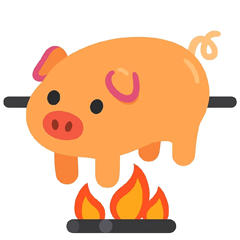
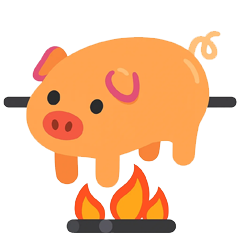
1

diff --git a/__init__.py b/__init__.py
@@ -17,7 +17,7 @@ HELP = """
 """
 sv = Service(
     "今天是什么小猪",
-    enable_on_default=True,
+    enable_on_default=False,
     help_=HELP.strip(),
 )
 # 载入小猪信息
@@ -123,3 +123,106 @@ async def find_pig(bot: HoshinoBot, ev: CQEvent):
         image_url = "https://pighub.top/data/" + pig["thumbnail"].split("/")[-1]
         messages.append(str(pig["title"] + MessageSegment.image(image_url)))
     await bot.send(ev, "\n".join(messages))
+
[email redacted]_prefix("烤群友")  
+async def roast_member(bot: HoshinoBot, ev: CQEvent):  
+    text = ev.message.extract_plain_text().strip()  
+  
+    force_keywords = {"打点后厨", "偷换烤架", "贿赂主厨", "加急生火", "加急生活"}  
+    super_force_keyword = "强行点火"  
+  
+    # 1) 解析后门口令  
+    force_mode = None  
+    if super_force_keyword in text:  
+        force_mode = "super"  
+    elif any(k in text for k in force_keywords):  
+        force_mode = "normal"  
+  
+    # 2) 解析目标：优先回复，其次 @  
+    target_id = None  
+    target_name = "群友"  
+  
+    reply = getattr(ev, "reply", None)  
+    if reply:  
+        try:  
+            target_id = str(reply.sender.user_id)  
+            target_name = reply.sender.card or reply.sender.nickname  
+        except Exception:  
+            target_id = None  
+  
+    if not target_id:  
+        for seg in ev.message:  
+            if seg.type == "at":  
+                target_id = str(seg.data["qq"])  
+                target_name = "对方"  
+                break  
+  
+    if not target_id:  
+        await bot.finish(ev, "请 @ 或回复你要烤的群友！")  
+        return  
+  
+    if target_id == str(ev.user_id):  
+        await bot.finish(ev, "对自己好一点，别自焚。请发送「今日烤猪」。")  
+        return  
+  
+    # 3) 读取今日抽猪缓存  
+    today_str = datetime.date.today().isoformat()  
+    today_cache = load_json(TODAY_PATH, {"date": "", "records": {}})  
+  
+    if today_cache.get("date") != today_str:  
+        today_cache = {"date": today_str, "records": {}}  
+  
+    records = today_cache["records"]  
+  
+    attacker_pig = records.get(str(ev.user_id))  
+    target_pig = records.get(target_id)  
+  
+    # 4) 目标资格检查  
+    if not target_pig:  
+        await bot.finish(ev, f"【{target_name}】今天还没抽过今日小猪，没法烤。")  
+        return  
+  
+    target_pig_id = target_pig.get("id", "")  
+    if target_pig_id == "human":  
+        await bot.finish(ev, f"【{target_name}】今天是人类形态，烤架拒绝处理。")  
+        return  
+  
+    # 5) 60% 成功 / 30% 逃脱 / 10% 反噬  
+    roll = 1 if force_mode in {"normal", "super"} else random.randint(1, 100)  
+  
+    if roll <= 60:  
+        if not PIG_LIST:  
+            await bot.finish(ev, "猪图鉴为空，请先检查资源文件。")  
+            return  
+  
+        food = random.choice(PIG_LIST)  
+        image = find_image_file(food["id"])  
+  
+        msg = f"【{target_name}】被烤成了【{food['name']}】\n{food['description']}\n分析：{food['analysis']}"  
+        if image:  
+            with Image.open(image) as img:  
+                msg += MessageSegment.image(pic2b64(img))  
+  
+        await bot.send(ev, msg)  
+        return  
+  
+    if roll <= 90:  
+        await bot.finish(ev, f"【{target_name}】机灵地逃掉了，这次没烤到。")  
+        return  
+  
+    if not PIG_LIST:  
+        await bot.finish(ev, "猪图鉴为空，请先检查资源文件。")  
+        return  
+  
+    backfire_food = random.choice(PIG_LIST)  
+    image = find_image_file(backfire_food["id"])  
+  
+    msg = (  
+        f"烤架反噬了发起者，你自己变成了【{backfire_food['name']}】\n"  
+        f"{backfire_food['description']}\n分析：{backfire_food['analysis']}"  
+    )  
+    if image:  
+        with Image.open(image) as img:  
+            msg += MessageSegment.image(pic2b64(img))  
+  
+    await bot.send(ev, msg)

diff --git a/util.py b/util.py
@@ -1,5 +1,6 @@
 import json
 from pathlib import Path
+from typing import Optional  # 
 from httpx import AsyncClient
 
 from .constant import IMAGE_DIR
@@ -25,7 +26,7 @@ async def async_fetch_pig_data(url: str):
         return response.json()
 
 
-def find_image_file(pig_id: str) -> Path | None:
+def find_image_file(pig_id: str) -> Optional[Path]:
     exts = ["png", "jpg", "jpeg", "webp", "gif"]
     for ext in exts:
         file = IMAGE_DIR / f"{pig_id}.{ext}"